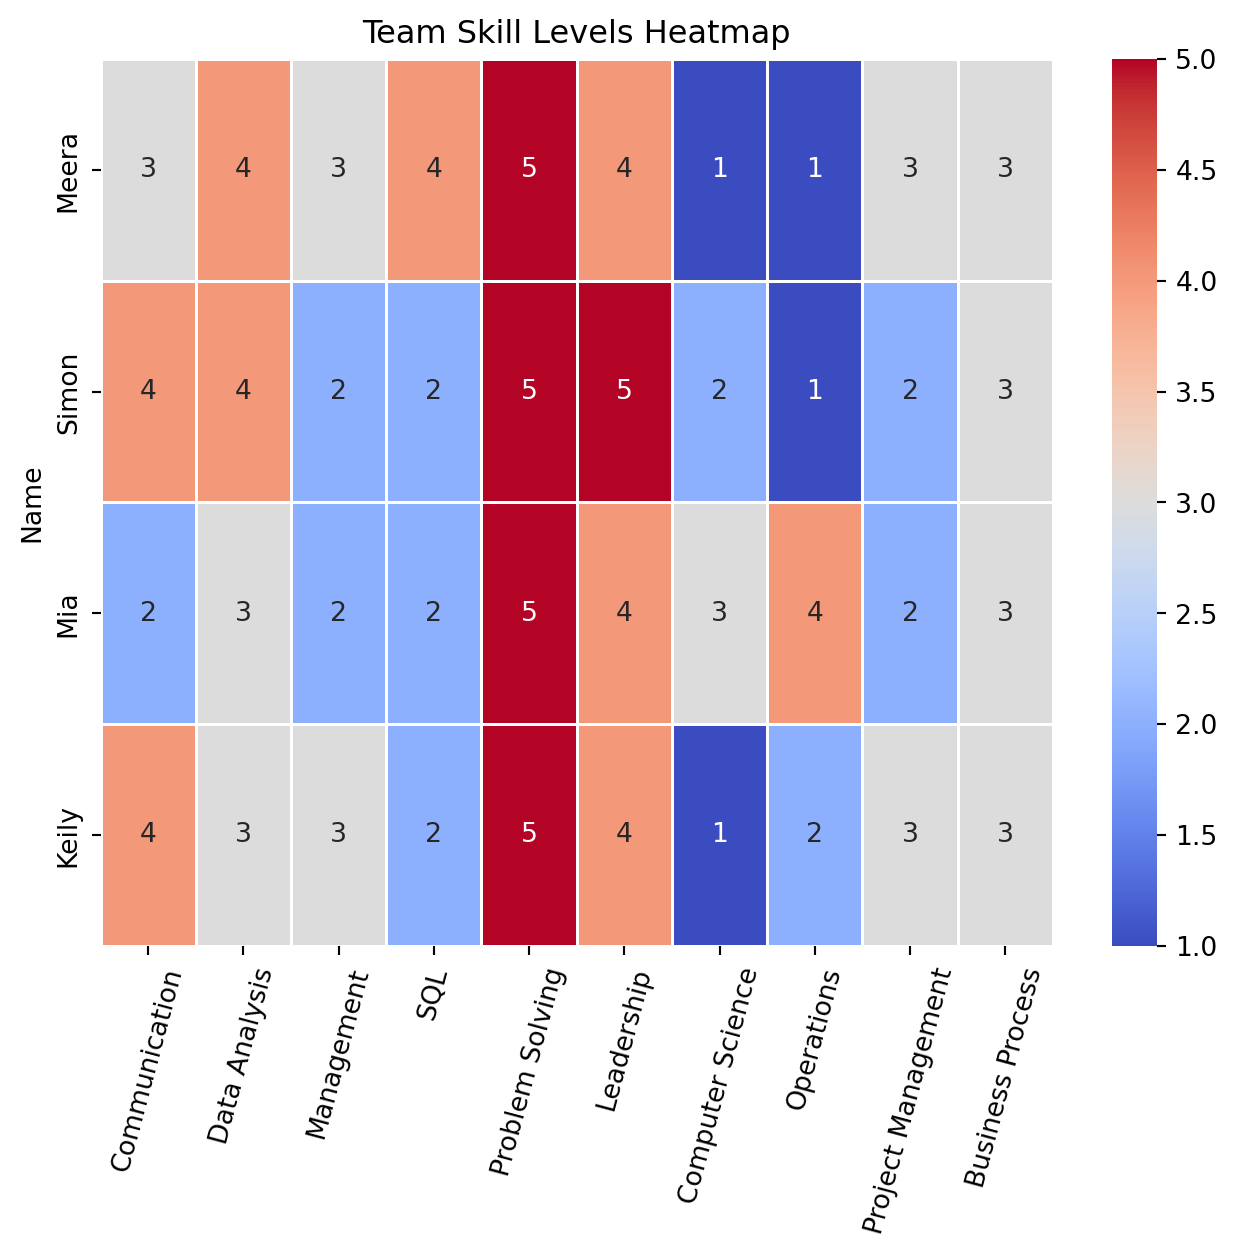
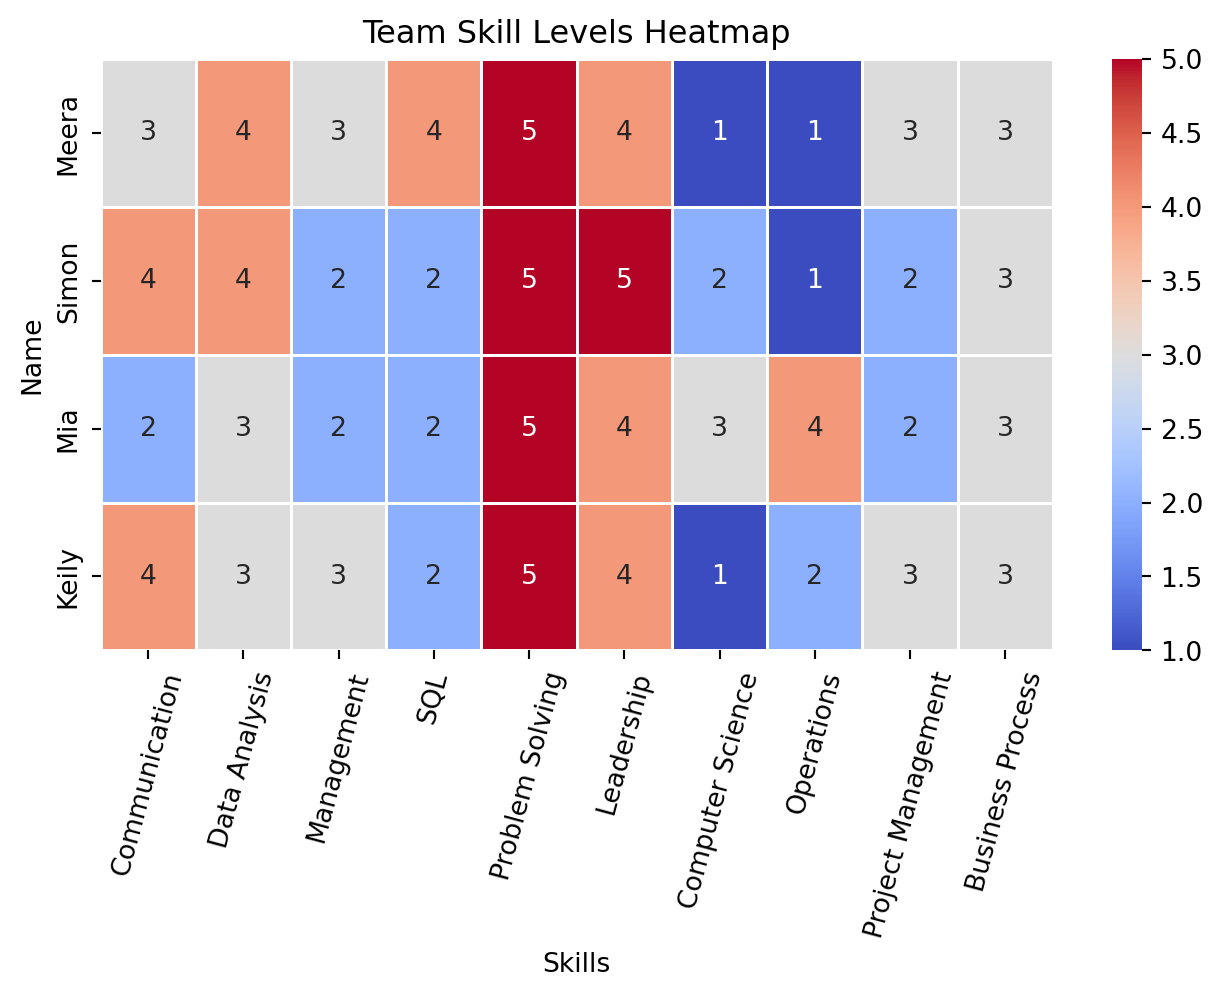
Built site for gh-pages

diff --git a/skill_gap_analysis.html b/skill_gap_analysis.html
@@ -216,7 +216,7 @@ pre > code.sourceCode > span > a:first-child::before { text-decoration: underlin
 4 = Advanced
 5 = Expert</code></pre>
 <p>Orignally, we thought relevant skills would include coding languages, machine learning, and cloud computing. The following heatmap helps you visualize which group members excelled in which of these skillsets.</p>
-<div id="b9ef3698" class="cell" data-execution_count="1">
+<div id="8aa792ca" class="cell" data-execution_count="1">
 <details class="code-fold">
 <summary>Show the code</summary>
 <div class="code-copy-outer-scaffold"><div class="sourceCode cell-code" id="cb2"><pre class="sourceCode python code-with-copy"><code class="sourceCode python"><span id="cb2-1"><a href="#cb2-1" aria-hidden="true" tabindex="-1"></a><span class="im">import</span> pandas <span class="im">as</span> pd</span>
@@ -241,12 +241,13 @@ pre > code.sourceCode > span > a:first-child::before { text-decoration: underlin
 <span id="cb2-20"><a href="#cb2-20" aria-hidden="true" tabindex="-1"></a>sns.heatmap(df_skills, annot<span class="op">=</span><span class="va">True</span>, cmap<span class="op">=</span><span class="st">"coolwarm"</span>, linewidths<span class="op">=</span><span class="fl">0.5</span>)</span>
 <span id="cb2-21"><a href="#cb2-21" aria-hidden="true" tabindex="-1"></a>plt.title(<span class="st">"Team Skill Levels Heatmap"</span>)</span>
 <span id="cb2-22"><a href="#cb2-22" aria-hidden="true" tabindex="-1"></a>plt.xticks(rotation<span class="op">=</span><span class="dv">45</span>)</span>
-<span id="cb2-23"><a href="#cb2-23" aria-hidden="true" tabindex="-1"></a>plt.show()</span></code></pre></div><button title="Copy to Clipboard" class="code-copy-button"><i class="bi"></i></button></div>
+<span id="cb2-23"><a href="#cb2-23" aria-hidden="true" tabindex="-1"></a>plt.xlabel(<span class="st">"Skills"</span>)</span>
+<span id="cb2-24"><a href="#cb2-24" aria-hidden="true" tabindex="-1"></a>plt.show()</span></code></pre></div><button title="Copy to Clipboard" class="code-copy-button"><i class="bi"></i></button></div>
 </details>
 <div class="cell-output cell-output-display">
 <div>
 <figure class="figure">
-<p><img src="skill_gap_analysis_files/figure-html/cell-2-output-1.png" width="619" height="584" class="figure-img"></p>
+<p><img src="skill_gap_analysis_files/figure-html/cell-2-output-1.png" width="619" height="603" class="figure-img"></p>
 </figure>
 </div>
 </div>
@@ -256,7 +257,7 @@ pre > code.sourceCode > span > a:first-child::before { text-decoration: underlin
 <section id="comparing-team-skills-to-industry-requirements" class="level2">
 <h2 class="anchored" data-anchor-id="comparing-team-skills-to-industry-requirements">Comparing Team Skills to Industry Requirements</h2>
 <p>After completing the exploratory data visualizations, it became apparent that the skills we assumed would be in highest demand were not all found in the top 10 in-demand skills of the dataset. After updating our list of skills, using the same numerical scale to indicate proficiency levels, we were able to compare our teams skills to the industry’s demands.</p>
-<div id="2edd0014" class="cell" data-execution_count="2">
+<div id="88ff3ec4" class="cell" data-execution_count="2">
 <details class="code-fold">
 <summary>Show the code</summary>
 <div class="code-copy-outer-scaffold"><div class="sourceCode cell-code" id="cb3"><pre class="sourceCode python code-with-copy"><code class="sourceCode python"><span id="cb3-1"><a href="#cb3-1" aria-hidden="true" tabindex="-1"></a>skills_data <span class="op">=</span> {</span>
@@ -380,20 +381,21 @@ pre > code.sourceCode > span > a:first-child::before { text-decoration: underlin
 </div>
 </div>
 <p>An updated heatmap could now be created with an accurate representation of our team’s skills in comparison to the industry’s requirements.</p>
-<div id="a16e6a25" class="cell" data-execution_count="3">
+<div id="8f6ea7cb" class="cell" data-execution_count="3">
 <details class="code-fold">
 <summary>Show the code</summary>
 <div class="code-copy-outer-scaffold"><div class="sourceCode cell-code" id="cb4"><pre class="sourceCode python code-with-copy"><code class="sourceCode python"><span id="cb4-1"><a href="#cb4-1" aria-hidden="true" tabindex="-1"></a><span class="co"># Heat map of skill level data frame</span></span>
-<span id="cb4-2"><a href="#cb4-2" aria-hidden="true" tabindex="-1"></a>plt.figure(figsize<span class="op">=</span>(<span class="dv">8</span>, <span class="dv">6</span>))</span>
+<span id="cb4-2"><a href="#cb4-2" aria-hidden="true" tabindex="-1"></a>plt.figure(figsize<span class="op">=</span>(<span class="dv">8</span>, <span class="dv">4</span>))</span>
 <span id="cb4-3"><a href="#cb4-3" aria-hidden="true" tabindex="-1"></a>sns.heatmap(df_skills, annot<span class="op">=</span><span class="va">True</span>, cmap<span class="op">=</span><span class="st">"coolwarm"</span>, linewidths<span class="op">=</span><span class="fl">0.5</span>)</span>
 <span id="cb4-4"><a href="#cb4-4" aria-hidden="true" tabindex="-1"></a>plt.title(<span class="st">"Team Skill Levels Heatmap"</span>)</span>
 <span id="cb4-5"><a href="#cb4-5" aria-hidden="true" tabindex="-1"></a>plt.xticks(rotation<span class="op">=</span><span class="dv">75</span>)</span>
-<span id="cb4-6"><a href="#cb4-6" aria-hidden="true" tabindex="-1"></a>plt.show()</span></code></pre></div><button title="Copy to Clipboard" class="code-copy-button"><i class="bi"></i></button></div>
+<span id="cb4-6"><a href="#cb4-6" aria-hidden="true" tabindex="-1"></a>plt.xlabel(<span class="st">"Skills"</span>)</span>
+<span id="cb4-7"><a href="#cb4-7" aria-hidden="true" tabindex="-1"></a>plt.show()</span></code></pre></div><button title="Copy to Clipboard" class="code-copy-button"><i class="bi"></i></button></div>
 </details>
 <div class="cell-output cell-output-display">
 <div>
 <figure class="figure">
-<p><img src="skill_gap_analysis_files/figure-html/cell-4-output-1.png" width="619" height="628" class="figure-img"></p>
+<p><img src="skill_gap_analysis_files/figure-html/cell-4-output-1.png" width="611" height="499" class="figure-img"></p>
 </figure>
 </div>
 </div>